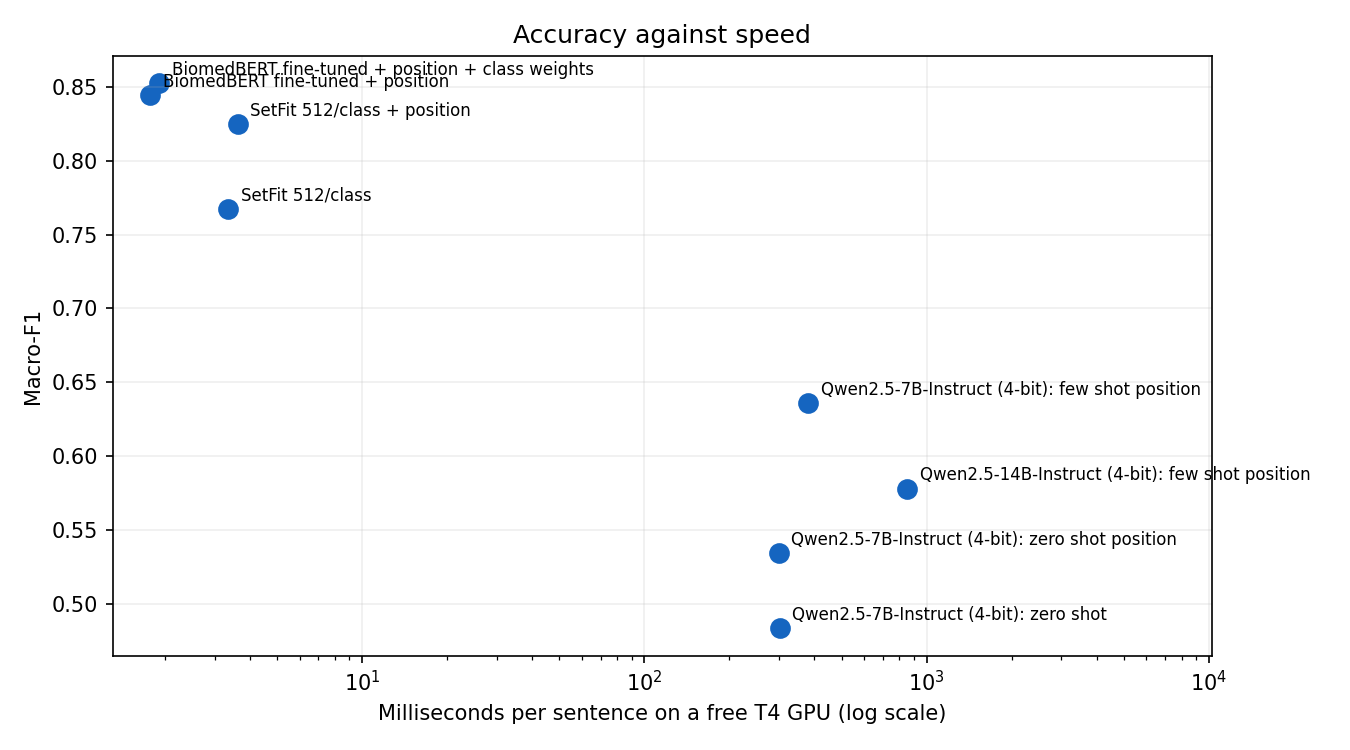
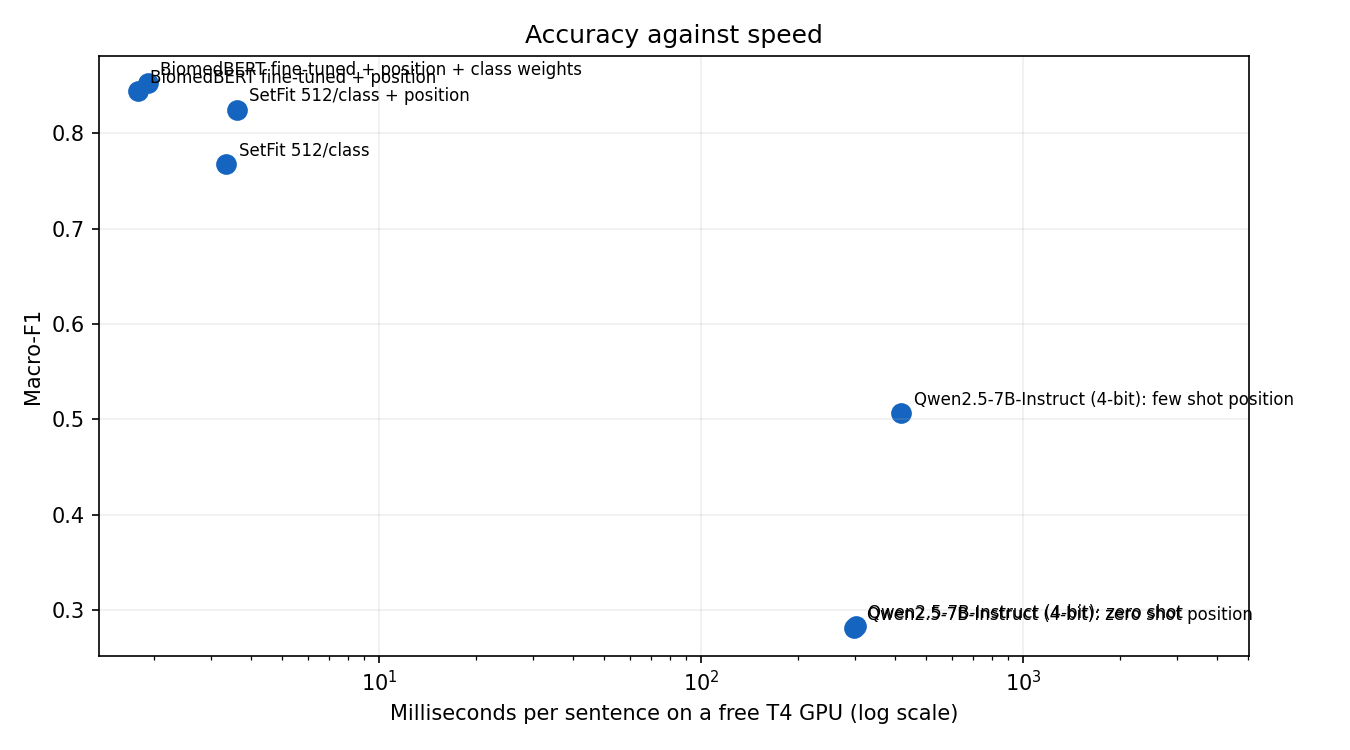
Fix LLM evaluation: shuffle sentences before batching; refresh results, charts and README

diff --git a/README.md b/README.md
@@ -2,7 +2,7 @@
 
 **Question:** to label the role of each sentence in a medical research abstract, should you fine-tune a small model or prompt a general large language model? And how much labelled data does the small model really need?
 
-**Short answer:** a fine-tuned 110-million-parameter biomedical model (BiomedBERT) was the most accurate model tested (macro-F1 **0.870** on 30,135 test sentences) and about **199 times faster** than the best general LLM tested (Qwen2.5-7B-Instruct (4-bit): few shot position), which scored **0.636**, below even a simple TF-IDF baseline. With only **640 labelled sentences**, a SetFit model matched a TF-IDF model trained on 180,040. And a manual review found that about **half of the best model's "errors" were labelling errors in the benchmark itself**.
+**Short answer:** a fine-tuned 110-million-parameter biomedical model (BiomedBERT) was the most accurate model tested (macro-F1 **0.870** on 30,135 test sentences) and about **218 times faster** than the best general LLM tested (Qwen2.5-7B-Instruct (4-bit): few shot position), which scored **0.506**, below even a simple TF-IDF baseline. With only **640 labelled sentences**, a SetFit model matched a TF-IDF model trained on 180,040. And a manual review found that about **half of the best model's "errors" were labelling errors in the benchmark itself**.
 
 ## The task and data
 
@@ -20,7 +20,7 @@
 | Classic baseline | TF-IDF + logistic regression, with and without sentence position | 180,040 |
 | Few-shot fine-tuning | SetFit on a biomedical sentence-transformer (S-PubMedBert-MS-MARCO), 8 to 512 examples per class | 40 to 2,560 |
 | Full fine-tuning | BiomedBERT (110M parameters), with and without class weights | 180,040 |
-| General LLM | Qwen2.5-7B-Instruct and Qwen2.5-14B-Instruct, zero-shot and few-shot in 4-bit, run locally | 0 or 10 examples in the prompt |
+| General LLM | Qwen2.5-7B-Instruct, zero-shot and few-shot in 4-bit, run locally | 0 or 10 examples in the prompt |
 
 "Position" means the sentence's place in its abstract (for example "[3 of 9]"), given to every model that uses it in the same way.
 
@@ -36,10 +36,9 @@ All scores on the same 1,000 balanced test sentences, with 95% bootstrap confide
 | TF-IDF + position | 180,040 | 0.806 | 0.783 to 0.831 | 0.833 | 0.695 | 0 |  |
 | SetFit 512/class | 2,560 | 0.767 | 0.740 to 0.791 | 0.764 | 0.672 | 0 | 3.4 |
 | TF-IDF (text) | 180,040 | 0.746 | 0.719 to 0.773 | 0.763 | 0.669 | 0 |  |
-| Qwen2.5-7B-Instruct (4-bit): few shot position | 10 | 0.636 | 0.604 to 0.664 |  | 0.548 | 26 | 380.0 |
-| Qwen2.5-14B-Instruct (4-bit): few shot position | 10 | 0.578 | 0.548 to 0.608 |  | 0.584 | 4 | 852.0 |
-| Qwen2.5-7B-Instruct (4-bit): zero shot position | 0 | 0.535 | 0.501 to 0.565 |  | 0.524 | 77 | 299.0 |
-| Qwen2.5-7B-Instruct (4-bit): zero shot | 0 | 0.483 | 0.452 to 0.514 |  | 0.514 | 86 | 302.0 |
+| Qwen2.5-7B-Instruct (4-bit): few shot position | 10 | 0.506 | 0.477 to 0.537 |  | 0.453 | 39 | 418.0 |
+| Qwen2.5-7B-Instruct (4-bit): zero shot | 0 | 0.283 | 0.255 to 0.311 |  | 0.401 | 48 | 302.0 |
+| Qwen2.5-7B-Instruct (4-bit): zero shot position | 0 | 0.281 | 0.252 to 0.309 |  | 0.341 | 143 | 299.0 |
 
 
 ### How much labelled data does a small model need?
@@ -63,7 +62,7 @@ All scores on the same 1,000 balanced test sentences, with 95% bootstrap confide
 
 1. **Fine-tuning a small domain model wins.** BiomedBERT fine-tuned + position + class weights reached macro-F1 **0.852** on the balanced set and **0.870** on the full test set, at **1.9 ms per sentence**. It was significantly better than the best baseline (exact McNemar test, p = 8e-6).
 2. **Labels are expensive; you need far fewer than you might think.** SetFit with **128 examples per class (640 sentences)** scored **0.748**, the same as TF-IDF trained on **180,040** sentences (0.746). Gains flatten quickly after that.
-3. **General LLMs are not competitive here.** The best LLM setting (Qwen2.5-7B-Instruct (4-bit): few shot position) scored **0.636**, below the simplest trained baseline, ran at **380 ms per sentence**, and returned **26** unusable answers out of 1,000 (wrong number of labels or invalid labels). Examples in the prompt helped it far more than position did.
+3. **General LLMs are not competitive here.** The best LLM setting (Qwen2.5-7B-Instruct (4-bit): few shot position) scored **0.506**, below the simplest trained baseline, ran at **418 ms per sentence**, and returned **39** unusable answers out of 1,000 (wrong number of labels or invalid labels). Examples in the prompt helped it far more than position did.
 4. **Class weights fix part of the rare-class problem, at no overall cost.** Square-root inverse-frequency weights raised OBJECTIVE F1 from **0.669** to **0.703**. The overall difference was not significant (p = 0.36), so this is a targeted improvement, not a better model overall. Interestingly, SetFit trained on balanced classes still had the best OBJECTIVE F1 (0.723).
 5. **The benchmark's labels are a ceiling.** I reviewed 30 randomly sampled sentences where the best unweighted model disagreed with the gold label:
 
@@ -86,14 +85,14 @@ Exact McNemar tests, paired on the same 1,000 sentences, comparing the best mode
 - vs **SetFit 512/class**: best right and other wrong on 133 sentences, the reverse on 44; p = 1e-11
 - vs **TF-IDF (text)**: best right and other wrong on 137 sentences, the reverse on 31; p = 4e-17
 - vs **Qwen2.5-7B-Instruct (4-bit): few shot position**: best right and other wrong on 269 sentences, the reverse on 43; p = 4e-41
-- vs **Qwen2.5-7B-Instruct (4-bit): zero shot position**: best right and other wrong on 377 sentences, the reverse on 42; p = 2e-68
 - vs **Qwen2.5-7B-Instruct (4-bit): zero shot**: best right and other wrong on 423 sentences, the reverse on 37; p = 4e-84
+- vs **Qwen2.5-7B-Instruct (4-bit): zero shot position**: best right and other wrong on 377 sentences, the reverse on 42; p = 2e-68
 
 
 ## Limitations
 
-- **No frontier LLM result.** A Gemini comparison is included as notebook 05, but it could not be completed on the free API tier because of quota and availability limits. The LLMs tested here are open models (7B and 14B) in 4-bit, so the result shows the gap for general models of that size, not for the largest commercial models. Doubling the LLM from 7B to 14B parameters changed its best macro-F1 from 0.636 to 0.578, still well below the fine-tuned models.
-- **LLM prompting was not tuned.** The LLM classified 20 sentences per prompt for efficiency, which is harder than one at a time, and invalid outputs were counted as wrong.
+- **No frontier LLM result.** A Gemini comparison is included as notebook 05, but it could not be completed on the free API tier because of quota and availability limits. The LLMs tested here are open models (7B) in 4-bit, so the result shows the gap for general models of that size, not for the largest commercial models.
+- **LLM prompting was not tuned.** The LLMs classified 20 sentences per prompt, in a fixed random order, for efficiency. That is harder than one at a time, and invalid outputs were counted as wrong. An earlier version sent sentences grouped by their gold label, so every prompt held 20 sentences with the same answer; that unfairly lowered the LLM scores and was corrected by shuffling before batching.
 - **Single runs.** Fine-tuning ran once per setting; GPU training is not fully deterministic, and small run-to-run differences (around 0.003 macro-F1) were observed.
 - **One dataset, one task.** Conclusions may not transfer to other text types or label schemes.
 
